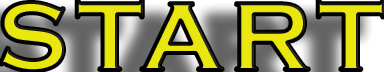
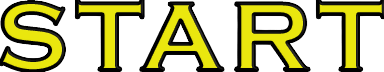
changed Start button; create Bohdan class(for future boy); and starting a startGame method

diff --git a/_JV_CD/src/Frame.java b/_JV_CD/src/Frame.java
@@ -30,7 +30,7 @@ public class Frame extends JFrame {
         start.addMouseListener(new MouseAdapter() {
             @Override
             public void mouseClicked(MouseEvent e) {
-                System.out.println("1");
+                startGame();
             }
         });
         start.addMouseListener(new MouseAdapter() {
@@ -56,6 +56,10 @@ public class Frame extends JFrame {
         background.add(exid);
         background.add(effects);
         add(background);
+        repaint();
+    }
+    private void startGame(){
+        removeAll();
         repaint();
     }
 }

diff --git a/_JV_CD/src/Bohdan.java b/_JV_CD/src/Bohdan.java
@@ -1,0 +1,21 @@
+import javax.swing.*;
+
+public class Bohdan {
+    JLabel frame;
+    boolean isAlive;
+    Bohdan(JLabel frame){
+        this.frame=frame;
+        isAlive=true;
+        JLabel boy = new JLabel(new ImageIcon("image here"));
+        boy.setBounds(50,300,75,75);
+        Thread fallingThread = new Thread(new Runnable() {
+            @Override
+            public void run() {
+                while (true){
+
+                }
+            }
+        });
+        frame.add(boy);
+    }
+}
